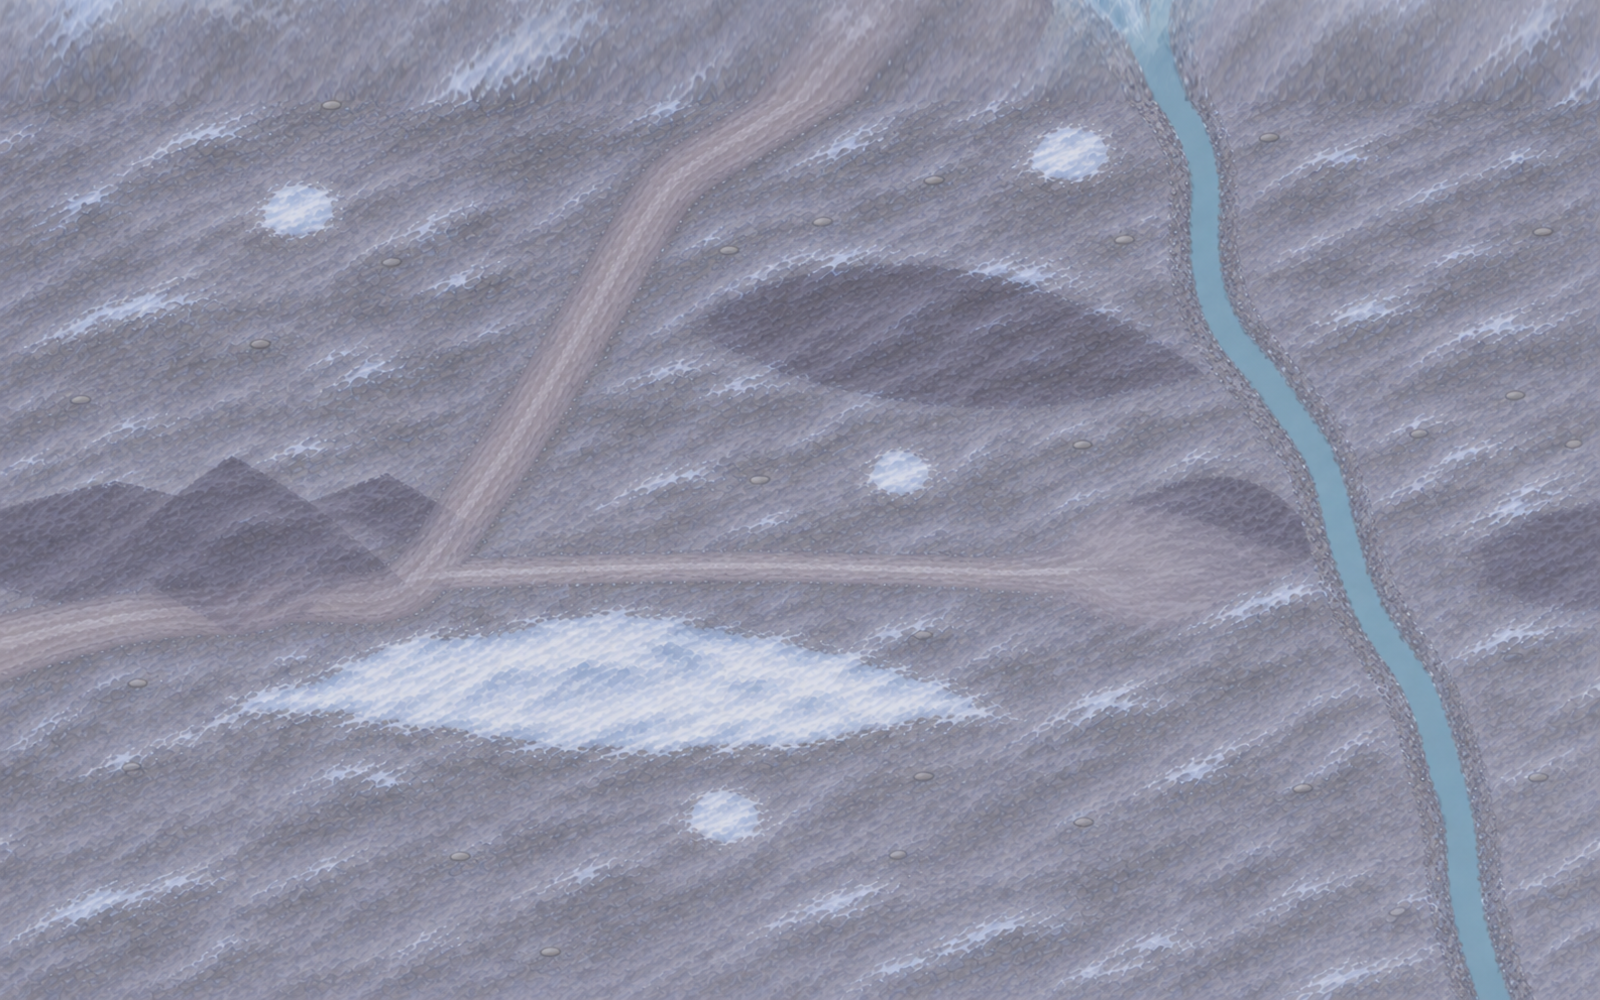
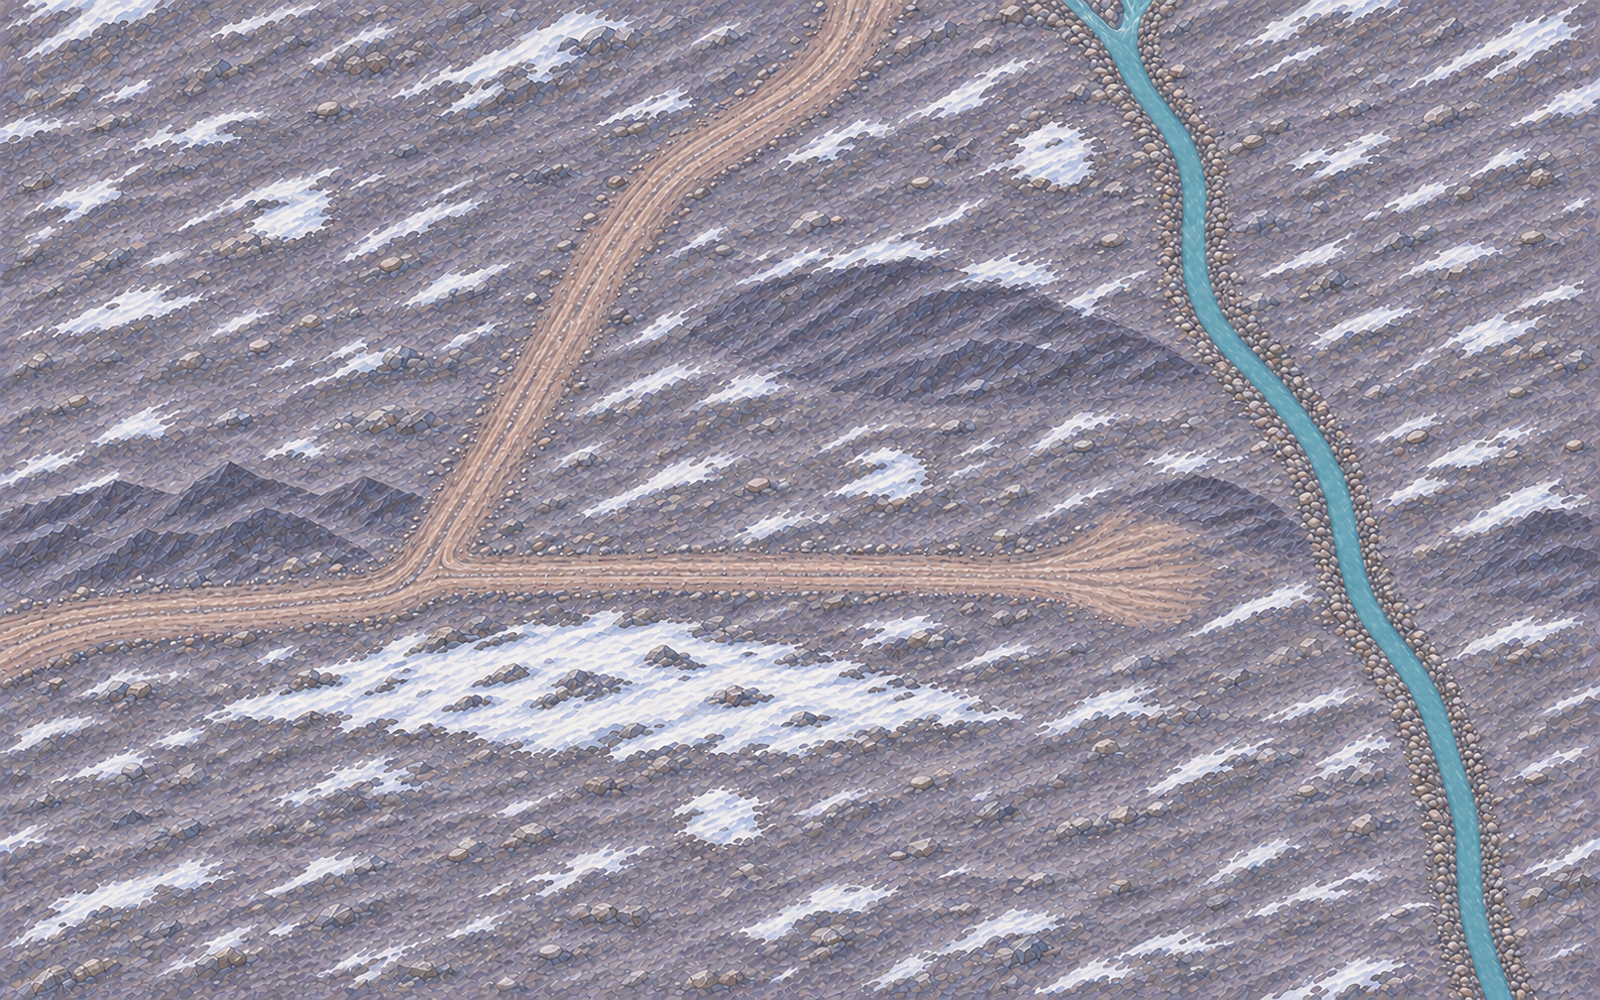
Refine Khan Tengri painted terrain

diff --git a/tests/unit/khanTengriLevel.test.ts b/tests/unit/khanTengriLevel.test.ts
@@ -42,7 +42,7 @@ describe('Khan Tengri authored layout', () => {
     expect(KHAN_TENGRI.world).toMatchObject({
       width: 6400,
       height: 4000,
-      terrainSize: 6400,
+      terrainSize: 8800,
       minX: -3200,
       minY: -2000,
       camp: { x: -2050, y: 1050 },
@@ -91,23 +91,27 @@ describe('Khan Tengri authored layout', () => {
       ).toBe(true);
   });
 
-  it('uses only bundled scenery and keeps the single pyramid as an edge frame', () => {
-    const peaks = KHAN_TENGRI.landmarks.filter((landmark) => landmark.role === 'peak-frame');
-    expect(peaks).toHaveLength(1);
-    expect(peaks[0]).toMatchObject({ frame: 'pyramid', y: -2050 });
+  it('uses only bundled ground scenery and leaves peaks outside the playable dressing', () => {
+    expect(KHAN_TENGRI.landmarks.map(({ frame }) => frame)).not.toContain('pyramid');
+    expect(KHAN_TENGRI.landmarks.map(({ frame }) => frame)).not.toContain('glacier');
     for (const landmark of KHAN_TENGRI.landmarks)
-      if (landmark.texture === 'steppe-scenery')
-        expect(['pyramid', 'glacier', 'crag']).toContain(landmark.frame);
+      if (landmark.texture === 'steppe-scenery') expect(['crag']).toContain(landmark.frame);
       else expect(ORKHON_SPRITES, landmark.id).toHaveProperty(landmark.frame);
   });
 });
 
 describe('Khan Tengri runtime terrain', () => {
   it('registers the approved bounds, camp, terrace, paths, obstacles and meltwater', () => {
-    expect(terrain.worldSize).toBe(6400);
-    expect(terrain.playBounds).toEqual({ x: 0, y: 1200, width: 6400, height: 4000 });
+    expect(terrain.worldSize).toBe(8800);
+    expect(terrain.playBounds).toEqual({ x: 1200, y: 2400, width: 6400, height: 4000 });
     expect(terrain.campPosition).toEqual(world(KHAN_TENGRI_SITES.camp));
-    expect(WORLD_REGIONS['khan-tengri'].shelves).toHaveLength(1);
+    expect(WORLD_REGIONS['khan-tengri'].shelves).toHaveLength(2);
+    expect(WORLD_REGIONS['khan-tengri'].shelves[1]).toMatchObject({
+      id: 'northern-peak-wall',
+      z: -3200,
+      depth: 800,
+    });
+    expect(-3200 + 800).toBeLessThan(KHAN_TENGRI.world.minY);
     expect(WORLD_REGIONS['khan-tengri'].ground?.paths).toEqual(KHAN_TENGRI.paths);
     expect(WORLD_REGIONS['khan-tengri'].obstacles).toHaveLength(KHAN_TENGRI_FOOTPRINTS.length);
     expect(terrain.river?.definition.kind).toBe('glacial');
@@ -152,7 +156,7 @@ describe('Khan Tengri painted ground', () => {
   });
 
   it('maps four opaque paintings and the grayscale detail layer over the playable rectangle', () => {
-    expect(khanTengriPaintedGroundWorldBounds(6400)).toEqual([0, 1200, 6400, 4000]);
+    expect(khanTengriPaintedGroundWorldBounds(8800)).toEqual([1200, 2400, 6400, 4000]);
     expect(KHAN_TENGRI_PAINTED_GROUND.outerFeather).toBe(700);
     for (const quadrant of PAINTED_GROUND_QUADRANTS) {
       const painting = KHAN_TENGRI_PAINTED_GROUND.quadrants[quadrant];

diff --git a/src/game/data/khanTengri.ts b/src/game/data/khanTengri.ts
@@ -17,8 +17,7 @@ export interface KhanTengriPlateau {
   ramps: readonly KhanTengriRamp[];
 }
 
-export type KhanTengriLandmarkRole =
-  'peak-frame' | 'overlook' | 'gap' | 'glacier' | 'erratic-field' | 'scenery';
+export type KhanTengriLandmarkRole = 'overlook' | 'gap' | 'glacier' | 'erratic-field' | 'scenery';
 
 /** Existing bundled scenery placed at an authored terrain site. */
 export interface KhanTengriLandmark {
@@ -89,14 +88,14 @@ const EAST_RAMP: KhanTengriRamp = {
 
 /**
  * Authored Khan Tengri glacier-margin level. Coordinates are level-centre-relative: +x east,
- * +y south. The distant peak is blocked scenery at the northern edge, while the playable
- * battlefield stays on the lower moraine floor and one raised lateral-moraine terrace.
+ * +y south. A terrain ridge walls off the distant northern peaks, while the playable battlefield
+ * stays on the lower moraine floor and one raised lateral-moraine terrace.
  */
 export const KHAN_TENGRI: KhanTengriLayout = {
   world: {
     width: 6400,
     height: 4000,
-    terrainSize: 6400,
+    terrainSize: 8800,
     minX: -3200,
     minY: -2000,
     camp: KHAN_TENGRI_SITES.camp,
@@ -170,20 +169,10 @@ export const KHAN_TENGRI: KhanTengriLayout = {
     width: 58,
     color: 0x78aabc,
     bank: 0xa7a5ad,
-    course: [2500, -2000, 2450, -1300, 2520, -600, 2700, 50, 2650, 600, 2820, 1250, 3050, 2000],
+    course: [1800, -2000, 1850, -1300, 2000, -600, 2200, 50, 2350, 600, 2650, 1250, 3000, 2000],
     gorge: { rapids: 0, bridges: [] },
   },
   landmarks: [
-    {
-      id: 'khan-tengri-pyramid',
-      texture: 'steppe-scenery',
-      frame: 'pyramid',
-      x: -450,
-      y: -2050,
-      width: 480,
-      role: 'peak-frame',
-      footprint: 180,
-    },
     {
       id: 'western-overlook-stone',
       texture: 'orkhon-valley-sprites',

diff --git a/tests/unit/worldRiver.test.ts b/tests/unit/worldRiver.test.ts
@@ -52,6 +52,19 @@ describe('integrated organic rivers', () => {
     bed.dispose();
   });
 
+  it('can retain authored river carving while a registered ground painting supplies the surface', () => {
+    const terrain = new ComposedTerrain(
+      composedRegion('khan-tengri'),
+      LANDSCAPES['khan-tengri'].water,
+    );
+    const bed = new THREE.Texture();
+    const water = new Water3D(terrain.river!, terrain, bed, undefined, false, false);
+    expect(water.group.getObjectByName('river-water')).toBeUndefined();
+    expect(terrain.river?.definition.kind).toBe('glacial');
+    water.destroy();
+    bed.dispose();
+  });
+
   it('answers bucketed shore queries exactly as a scan of every segment', () => {
     for (const water of [
       MEADOW_STREAM,

diff --git a/src/game/world3d/Water3D.ts b/src/game/world3d/Water3D.ts
@@ -16,6 +16,7 @@ export class Water3D {
     /** Supplied flow and rapids tiles. Authored rivers show them directly and draw no plank decks. */
     waterTextures?: readonly [THREE.Texture, THREE.Texture],
     crossings = waterTextures === undefined,
+    surface = true,
   ) {
     this.group.name = 'world-river';
     const data = waterGeometry(river, terrain);
@@ -110,7 +111,7 @@ export class Water3D {
       bankMesh.name = 'source-pool-bank';
       this.group.add(bankMesh);
     }
-    this.group.add(mesh);
+    if (surface) this.group.add(mesh);
     const matrices: THREE.Matrix4[] = [];
     const colors: THREE.Color[] = [];
     const dummy = new THREE.Object3D();

diff --git a/src/game/world3d/khanTengriDressing.ts b/src/game/world3d/khanTengriDressing.ts
@@ -128,11 +128,9 @@ function buildDressing(seed: string | number): SceneDressing[] {
       frame: landmark.frame,
       shadow: landmark.shadow ?? false,
       originY:
-        landmark.role === 'peak-frame'
-          ? 1
-          : landmark.texture === 'steppe-scenery'
-            ? 0.9
-            : ORKHON_SPRITES[landmark.frame as OrkhonSprite]?.anchorY,
+        landmark.texture === 'steppe-scenery'
+          ? 0.9
+          : ORKHON_SPRITES[landmark.frame as OrkhonSprite]?.anchorY,
     });
 
   // One quiet candidate per 250-unit cell preserves broad combat lanes while breaking up the

diff --git a/src/game/data/worldRegions.ts b/src/game/data/worldRegions.ts
@@ -314,7 +314,20 @@ export const WORLD_REGIONS: Readonly<Record<LocationId, RegionComposition>> = {
       y,
       radius: footprint,
     })),
-    shelves: KHAN_TENGRI.plateaus.map((source) => plateau(source, KHAN_TENGRI.rise)),
+    shelves: [
+      ...KHAN_TENGRI.plateaus.map((source) => plateau(source, KHAN_TENGRI.rise)),
+      {
+        id: 'northern-peak-wall',
+        x: 0,
+        z: -3200,
+        width: 3800,
+        depth: 800,
+        rise: 430,
+        turn: 0,
+        fracture: 150,
+        peak: 280,
+      },
+    ],
   },
   belukha: {
     id: 'belukha',

diff --git a/tests/visual/khan-tengri-capture.spec.ts b/tests/visual/khan-tengri-capture.spec.ts
@@ -7,7 +7,7 @@ import type { CameraOptions } from '../../src/game/dev/gameControls';
 // compared). Run only when browser capture is explicitly approved. Every view uses the seeded
 // checkpoint, normal camera angle, full resolution, frozen simulation, and hidden HUD.
 
-const at = (x: number, y: number) => ({ x: 3200 + x, y: 3200 + y });
+const at = (x: number, y: number) => ({ x: 4400 + x, y: 4400 + y });
 
 interface Shot {
   name: string;

diff --git a/src/game/world3d/World3DRenderer.ts b/src/game/world3d/World3DRenderer.ts
@@ -207,6 +207,7 @@ export class World3DRenderer {
         this.materials.bedTexture,
         this.materials.waterTextures,
         terrain.region.scene.id !== 'khan-tengri',
+        terrain.region.scene.id !== 'khan-tengri' || paintedGround === undefined,
       );
       this.world.add(this.water.group);
     }

diff --git a/docs/khan-tengri.md b/docs/khan-tengri.md
@@ -24,19 +24,23 @@ and +y is south.
   combat lanes.
 
 Every authored trail either reaches a named terrain place or joins another trail. The summit is
-not a climbable objective: one distant pyramid and the upper glacier frame the northern edge while
-the playable ground stays on moraine terraces and outwash.
+not a climbable objective: a high terrain ridge beyond the northern play boundary forms the
+impassable distant peak wall while the playable ground stays on moraine terraces and outwash. The
+8,800-unit terrain canvas leaves at least 1,200 units between every camera clamp and the map edge.
 
 ## Hybrid terrain and scenery
 
 The shared hybrid renderer projects painted ground over elevation geometry while cliffs, ramps,
-water, landmarks, actors, collision, and shadows remain separate. The upper moraine therefore
-uses the same lavender scree, snow, and blue-grey rock language as the lower floor rather than a
-smooth generic material.
+landmarks, actors, collision, and shadows remain separate. The river system still carves the
+glacial course, while the registered ground painting supplies its calm surface across both terrain
+tiers without a detached valley-floor water mesh. The upper moraine therefore uses the same
+lavender scree, snow, and blue-grey rock language as the lower floor rather than a smooth generic
+material.
 
-Existing bundled scenery supplies a small marble-pyramid edge frame, angular crags, standing
-stone, and boulders. The glacier tongue stays in the ground painting because the available large
-glacier cutout does not register cleanly against this elevation geometry. Sparse deterministic
+Existing bundled scenery supplies angular crags, a standing stone, and boulders. Peaks remain in
+the off-playfield northern terrain wall rather than appearing as cutout sprites on walkable ground.
+The glacier tongue stays in the ground painting because the available large glacier cutout does
+not register cleanly against this elevation geometry. Sparse deterministic
 rock groups frame the outer battlefield without trees or alpine vegetation; the camp clearing,
 trails, ramps, water edge, and broad horde lanes remain open. `world3d/khanTengriDressing.ts`
 builds this dressing for the whole level before clipping it into render chunks, keeping placement
